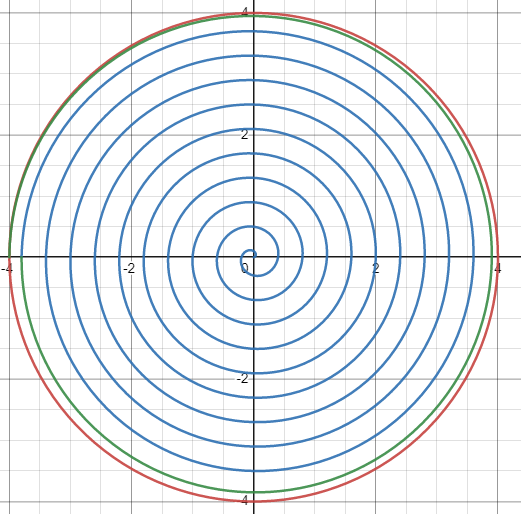
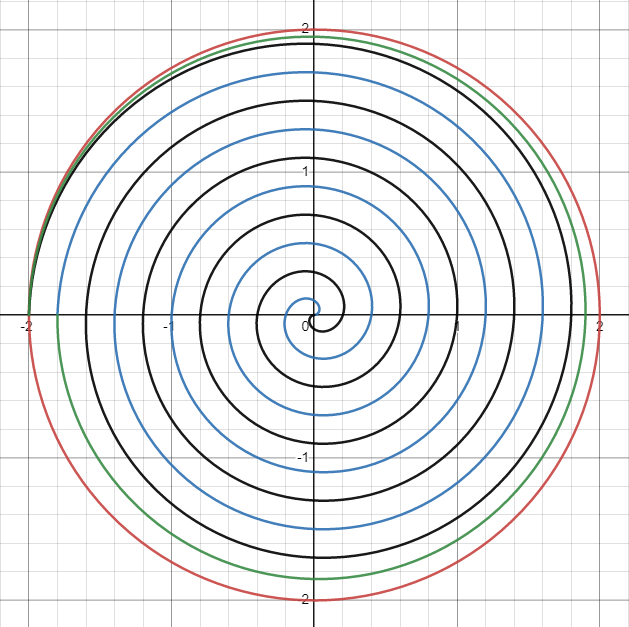
document easing and fix an image link

diff --git a/content/other-random-projects/Fun-With-Overhangs.md b/content/other-random-projects/Fun-With-Overhangs.md
@@ -76,10 +76,18 @@ a few tries to get this right:
 ![A very not dense double mushroom](/docs/fun-with-overhangs/weak-double-mushroom.JPG "This mushroom printed the entire cap with the flow decay, which resulted in weak and translucent layers.") 
 I was able to tune the layers with decayed flow so there was only as many as needed to get a flat layer. There's probably more room for improvement in the algorithm, but I'm happy with where I ended up.
 ![Two nice double mushrooms](/docs/fun-with-overhangs/nice-double-mushrooms.JPG "Tuning the thickness of the decayed-flow layers. They are visible as light bands near the bottom of the middle and top cylinders.")
+## Spiral Easing
+Because the toolpath is generated from a spiral, the circumference is not consistent and has a sharp jump where the spiral ends. After playing
+around in [this Desmos calculator](https://www.desmos.com/calculator/ydlczqiq08) I found a polar equation that nicely averaged between the spiral
+and a perfect circle:
+![A circle filled by a spiral](/docs/fun-with-overhangs/circle-spiral-gen.png "Here, the red line is the target circle, the blue line is the normal spiral, the black line is the outline of the actual printed plastic, and the green line is a line to circularize the spiral.")
+This isn't perfect in practice, and I end sometimes end up with a small blob on the seam. I think this is due to the pressure at the end of my
+Bowden tube lagging behind the pressure caused by the extruder. This is fine when the line width is constant, but with a varying line width like
+this, the printer is extruding too much filament at a given spot because the pressure at the hotend is from a few millimeters ago. I might be able
+to mitigate this by using a direct drive extruder or by decreasing the flow multiplier for the ease (though I'm hesitant to hardcode such a printer-dependant factor).
 ## To Bigger and Better Things
 Now that I had some nice mushroom-generating code, I tried to change some of the parameters to better fit my initial roller design.
 I had to abort the first print out of the printer:
-![A larger failed single mushroom](/static/docs/fun-with-overhangs/sad-big-mushroom.JPG "The issues are back! Turns out they have to be tuned for each size of mushroom.")
-This is where I'm at now. I haven't had the motivation to try and fix this or guess at parameters for different sized mushrooms. I'm happy with how far I've come, and I may try to change the design to use the rollers I can produce. I really enjoyed using Rust and will continue to learn it and use it where I can. I specifically found the transparent file handling (It just automatically unloads when it goes out of scope!) and helpful errors (Does
-*any other language* tell you exactly how to fix the error you caused?) very nice to use. I might return to this project and G-code generator, but it's
-more likely I'll use what I learned here to inform other experimental 3D printing projects.
+![A larger failed single mushroom](/docs/fun-with-overhangs/sad-big-mushroom.JPG "The issues are back! Turns out they have to be tuned for each size of mushroom.")
+This is where I'm at now. I've somewhat run out of time to work on this, and I haven't yet tried to guess at better parameters for different sized mushrooms. I'm happy with how far I've come, and I may try to change the design to use the rollers I can produce. I really enjoyed using Rust and will continue to learn it and use it where I can. I specifically found the seamless file handling (It just automatically unloads when it goes out of scope!) and helpful errors (Does
+*any other language* tell you *exactly* how to fix the error you caused?) very nice to use. I might return to this project and G-code generator, but it's more likely I'll use what I learned here to inform other experimental 3D printing projects.
